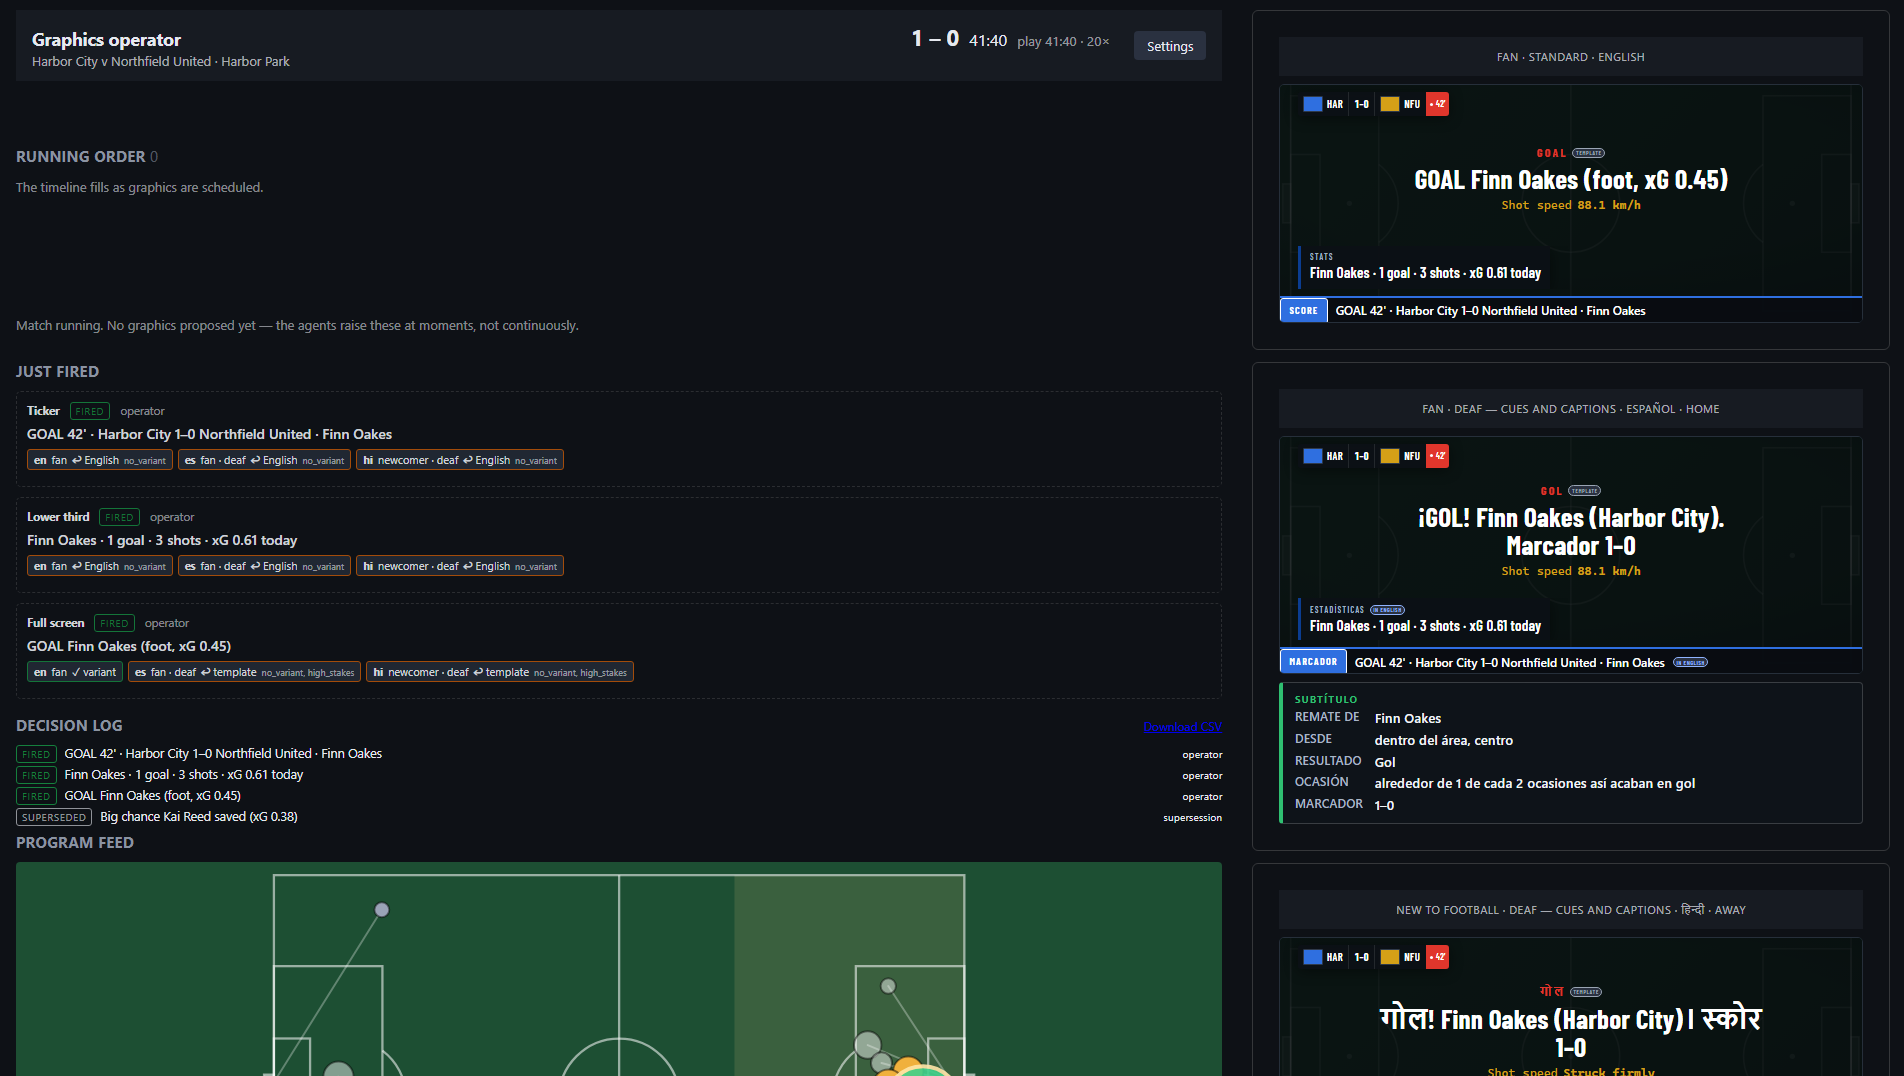
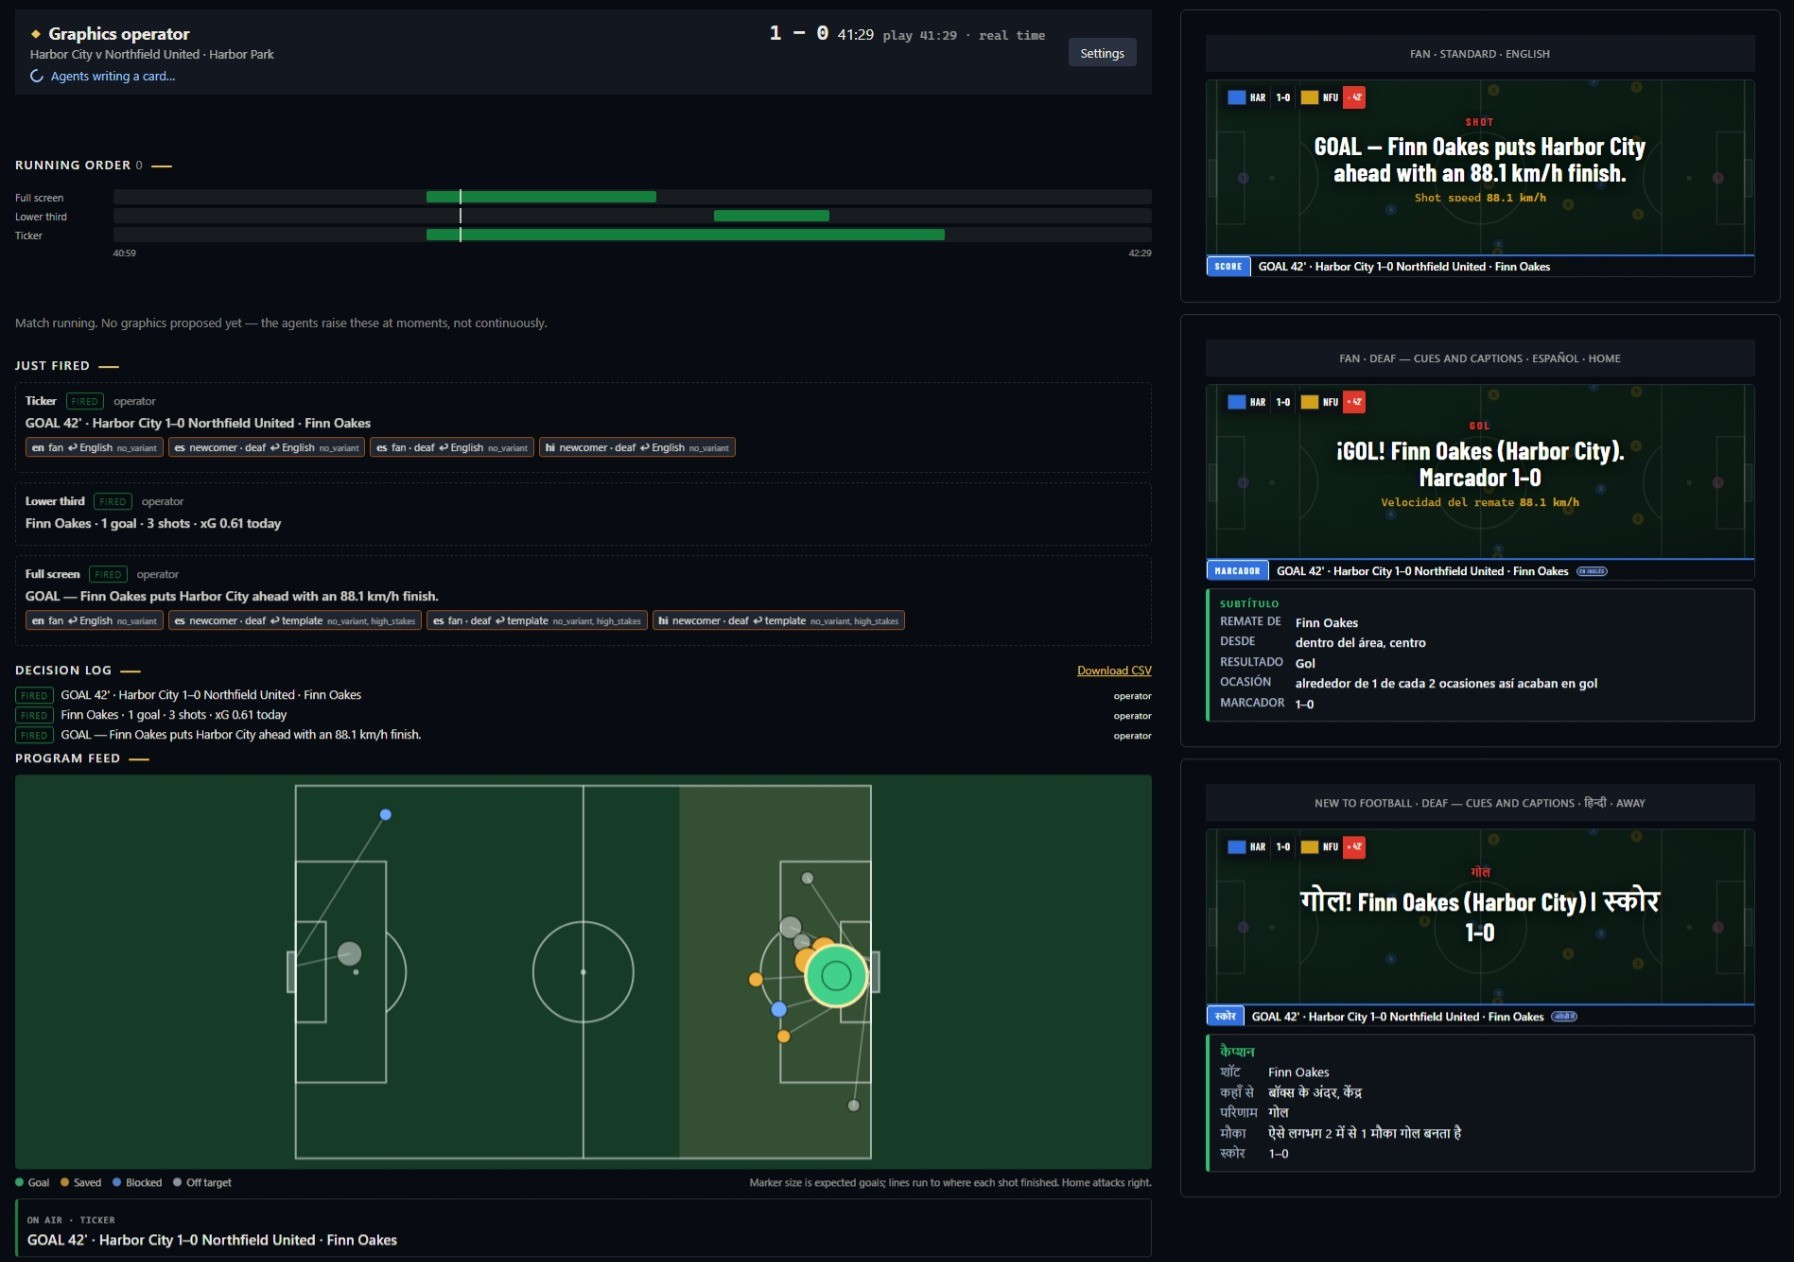
docs: update judge walkthrough and operator screenshots
Point the judge walkthrough to the /operator-demo route, add a README link to the testing instructions, and refresh the operator and viewer screenshots.

diff --git a/README.md b/README.md
@@ -10,7 +10,8 @@ Category: Best Enterprise Solution (also fits Best Use of Microsoft Foundry).
 
 | | |
 | --- | --- |
-| Live demo (operator) | https://ca-crq-web-poc-eastus2-01.wittyground-1f27f60c.eastus2.azurecontainerapps.io/operator |
+| Live demo (operator) | https://ca-crq-web-poc-eastus2-01.wittyground-1f27f60c.eastus2.azurecontainerapps.io/operator-demo |
+| Testing instructions | [Judge walkthrough (about three minutes, no login)](#judge-walkthrough-about-three-minutes-no-login) |
 | Live demo (deaf Spanish viewer) | https://ca-crq-web-poc-eastus2-01.wittyground-1f27f60c.eastus2.azurecontainerapps.io/viewer?persona=newcomer&access=deaf&lang=es&allegiance=neutral |
 | Video (under 2 minutes) | [link] |
 | Tests in CI | 541 passing (377 Python + 164 TypeScript) |
@@ -99,7 +100,8 @@ Three things set it apart:
 
 ## Judge walkthrough (about three minutes, no login)
 
-1. Open the live demo. The reference match (seed 42, Harbor City v Northfield United) replays from 41:00.
+1. Open the live demo: https://ca-crq-web-poc-eastus2-01.wittyground-1f27f60c.eastus2.azurecontainerapps.io/operator-demo  
+   The reference match (seed 42, Harbor City v Northfield United) replays from 41:00.
 2. Watch the **running order** fill. Each card shows the proposed line, its evidence from the event feed,
    the faithfulness score, the model that wrote it, and a **Holds in 10 s** countdown.
 3. Use **Preview for** on a card to see exactly what a Spanish deaf fan or a Hindi newcomer would get, and
